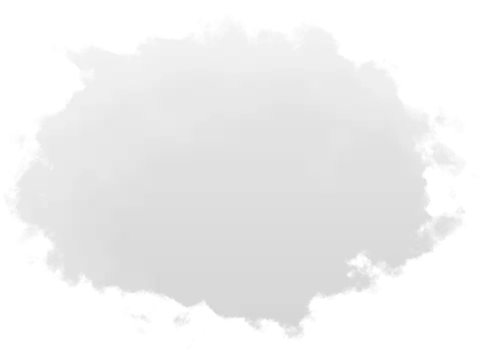
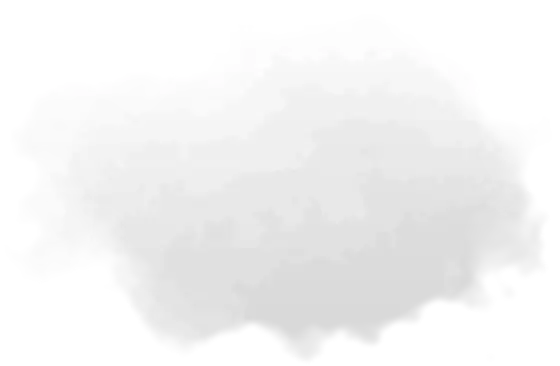
Thin the marketing sky to four soft cumulus at the corners.
The hero stays open sky, phone width keeps three clouds, and night tints the same images to a faint blue-grey.

diff --git a/src/components/sky/clouds/cloud-cutouts.ts b/src/components/sky/clouds/cloud-cutouts.ts
@@ -1,10 +1,10 @@
-/** Photographic cumulus placed at the sides, corners and lower frame. The centre stays sky. */
+/** Photographic cumulus at the edges and corners. The hero sky stays clear. */
 export type CloudCutout = {
   src: string;
   /** Far drifts slower than near, so the two layers parallax. */
   layer: "far" | "near";
-  /** Shown when the live weather is overcast, wet or snowy. */
-  extra?: boolean;
+  /** Hidden at phone width so a small screen shows three clouds, not four. */
+  hideOnPhone?: boolean;
   left?: string;
   right?: string;
   top: string;
@@ -18,12 +18,8 @@ export type CloudCutout = {
 };
 
 export const CLOUD_CUTOUTS: CloudCutout[] = [
-  { src: "/sky/clouds/cumulus-1.webp", layer: "far", left: "-4%", top: "-4%", width: "36%", w: 480, h: 350, dur: "150s", dx: "3.2%", dy: "0.4%", delay: "-20s" },
-  { src: "/sky/clouds/cumulus-2.webp", layer: "far", right: "-4%", top: "46%", width: "36%", w: 480, h: 331, dur: "170s", dx: "2.8%", dy: "0.3%", delay: "-60s" },
-  { src: "/sky/clouds/cumulus-3.webp", layer: "far", left: "-8%", top: "62%", width: "34%", w: 440, h: 370, dur: "160s", dx: "3%", dy: "0.5%", delay: "-90s" },
-  { src: "/sky/clouds/cumulus-4.webp", layer: "near", left: "-10%", top: "18%", width: "40%", w: 600, h: 596, dur: "78s", dx: "6.5%", dy: "0.7%", delay: "-12s" },
-  { src: "/sky/clouds/cumulus-5.webp", layer: "near", right: "-6%", top: "24%", width: "38%", w: 560, h: 590, dur: "70s", dx: "7%", dy: "0.6%", delay: "-36s" },
-  { src: "/sky/clouds/cumulus-6.webp", layer: "near", right: "2%", top: "64%", width: "36%", w: 540, h: 536, dur: "84s", dx: "6%", dy: "0.8%", delay: "-48s" },
-  { src: "/sky/clouds/cumulus-7.webp", layer: "near", extra: true, left: "-2%", top: "74%", width: "30%", w: 440, h: 315, dur: "90s", dx: "5%", dy: "0.4%", delay: "-8s" },
-  { src: "/sky/clouds/cumulus-8.webp", layer: "far", extra: true, right: "16%", top: "54%", width: "28%", w: 420, h: 299, dur: "140s", dx: "3.4%", dy: "0.3%", delay: "-70s" },
+  { src: "/sky/clouds/cumulus-1.webp", layer: "far", left: "-8%", top: "-12%", width: "28%", w: 560, h: 366, dur: "160s", dx: "2.2%", dy: "0.3%", delay: "-20s" },
+  { src: "/sky/clouds/cumulus-2.webp", layer: "far", right: "-10%", top: "-8%", width: "26%", w: 540, h: 359, dur: "180s", dx: "2%", dy: "0.25%", delay: "-70s" },
+  { src: "/sky/clouds/cumulus-3.webp", layer: "near", hideOnPhone: true, left: "-12%", top: "62%", width: "32%", w: 560, h: 392, dur: "90s", dx: "2.4%", dy: "0.4%", delay: "-30s" },
+  { src: "/sky/clouds/cumulus-4.webp", layer: "near", right: "-8%", top: "64%", width: "30%", w: 580, h: 409, dur: "80s", dx: "2.6%", dy: "0.35%", delay: "-48s" },
 ];

diff --git a/tests/sky-nav-readability.test.ts b/tests/sky-nav-readability.test.ts
@@ -73,7 +73,11 @@ test("dark sky is navy with clouds that stay visible and keep light ink at AA", 
   assert.match(vol, /return \(p\.x \+ drift\) \* lite \* cover \* 0\.0/);
   const css = read("src/components/sky/Sky.module.css");
   assert.match(css, /@keyframes cloud-drift/);
-  assert.match(css, /:global\(:root\[data-theme="dark"\]\) \.cloudImg \{\s*filter:/);
+  const nightClouds = css.match(/:global\(:root\[data-theme="dark"\]\) \.cloudImg \{([^}]*)\}/)?.[1] ?? "";
+  assert.match(nightClouds, /opacity:\s*0\.3/);
+  assert.match(nightClouds, /filter:/);
+  assert.doesNotMatch(nightClouds, /contrast/);
+  assert.match(css, /\.cloudPhone \{ display: none; \}/);
   assert.doesNotMatch(css, /\.h1 \{[^}]*filter:/);
   assert.match(css, /url\("\.\/static-day\.svg"\)/);
   assert.match(css, /url\("\.\/static-night\.svg"\)/);
@@ -85,21 +89,23 @@ test("cumulus cutouts are CC0, light, and stay off the headline", () => {
   assert.ok(license.includes("WickedInsignia"));
   assert.ok(license.includes("public domain"));
   const files = readdirSync("public/sky/clouds").filter((name) => name.endsWith(".webp"));
-  assert.equal(files.length, 8);
+  assert.equal(files.length, 4);
   const bytes = files.reduce((sum, name) => sum + statSync(`public/sky/clouds/${name}`).size, 0);
   assert.ok(bytes < 400 * 1024, `cutouts are ${bytes} bytes`);
-  assert.equal(CLOUD_CUTOUTS.length, 8);
+  assert.equal(CLOUD_CUTOUTS.length, 4);
+  assert.ok(CLOUD_CUTOUTS.length <= 5);
+  assert.equal(CLOUD_CUTOUTS.filter((cloud) => cloud.hideOnPhone).length, 1);
   for (const cloud of CLOUD_CUTOUTS) {
-    if (cloud.extra) continue;
     const width = Number.parseFloat(cloud.width);
     const top = Number.parseFloat(cloud.top);
+    const drift = Number.parseFloat(cloud.dx);
     const start = cloud.left != null
       ? Number.parseFloat(cloud.left)
       : 100 - Number.parseFloat(cloud.right ?? "0") - width;
-    const end = start + width;
-    if (top < 48) {
-      const overlaps = Math.min(end, 70) - Math.max(start, 30);
-      assert.ok(overlaps < 4, `${cloud.src} crosses the headline`);
+    const end = start + width + (cloud.left != null ? drift : 0);
+    if (top < 60) {
+      const overlaps = Math.min(end, 75) - Math.max(start, 25);
+      assert.ok(overlaps <= 0, `${cloud.src} crosses the hero sky`);
     }
   }
   const deck = read("src/components/sky/clouds/CloudCutouts.tsx");

diff --git a/src/components/sky/Sky.module.css b/src/components/sky/Sky.module.css
@@ -65,26 +65,29 @@
   user-select: none;
   animation: cloud-drift var(--dur, 120s) ease-in-out infinite alternate;
 }
-.cloudExtra { display: none; }
-:global(:root[data-cloud-cover="more"]) .cloudExtra { display: block; }
 @keyframes cloud-drift {
   from { transform: translate3d(0, 0, 0); }
-  to { transform: translate3d(var(--dx, 4%), var(--dy, 0.4%), 0); }
+  to { transform: translate3d(var(--dx, 2%), var(--dy, 0.3%), 0); }
 }
+/* Overcast and rain grey the same few clouds. They do not add another row. */
 :global(:root[data-cloud-cover="more"]) .cloudImg {
-  filter: saturate(0.5) brightness(0.84);
+  filter: saturate(0.6) brightness(0.9);
 }
+/* Night: faint blue-grey. Opacity stays in the mid-20s to mid-30s, with no contrast boost. */
 :global(:root[data-theme="dark"]) .cloudImg {
-  filter: brightness(0.52) contrast(1.06) saturate(0.38) sepia(0.2) hue-rotate(188deg);
+  opacity: 0.32;
+  filter: grayscale(0.4) sepia(0.45) hue-rotate(192deg) saturate(0.5) brightness(0.95);
 }
 :global(:root[data-theme="dark"][data-cloud-cover="more"]) .cloudImg {
-  filter: brightness(0.4) contrast(1.02) saturate(0.26) sepia(0.16) hue-rotate(190deg);
+  opacity: 0.28;
+  filter: grayscale(0.5) sepia(0.35) hue-rotate(192deg) saturate(0.35) brightness(0.88);
 }
 .cloudDeck[data-drift="off"] .cloudImg { animation: none; }
 @media (prefers-reduced-motion: reduce) {
   .cloudImg { animation: none; }
 }
 @media (max-width: 640px) {
+  .cloudPhone { display: none; }
   .cloudImg { animation: none; }
 }
 

diff --git a/src/components/sky/clouds/CloudCutouts.tsx b/src/components/sky/clouds/CloudCutouts.tsx
@@ -10,7 +10,7 @@ import { CLOUD_CUTOUTS } from "./cloud-cutouts";
 
 /**
  * CC0 cumulus cutouts (public/sky/clouds). Two depths drift at different speeds.
- * A dark-mode filter tints these images only. Overcast and rain reveal the extra pair and grey them.
+ * A dark-mode filter tints these images only. Overcast and rain grey the same clouds.
  */
 export function CloudCutouts() {
   const ref = useRef<HTMLDivElement>(null);
@@ -48,7 +48,7 @@ export function CloudCutouts() {
         // eslint-disable-next-line @next/next/no-img-element
         <img
           key={cloud.src}
-          className={cloud.extra ? `${s.cloudImg} ${s.cloudExtra}` : s.cloudImg}
+          className={cloud.hideOnPhone ? `${s.cloudImg} ${s.cloudPhone}` : s.cloudImg}
           src={cloud.src}
           alt=""
           width={cloud.w}

diff --git a/public/sky/clouds/LICENSE.md b/public/sky/clouds/LICENSE.md
@@ -1,6 +1,6 @@
 # Sky cloud cutouts
 
-Eight cumulus sprites, `cumulus-1.webp` through `cumulus-8.webp`.
+Four cumulus sprites, `cumulus-1.webp` through `cumulus-4.webp`.
 
 Source: “Clouds with Transparency” by WickedInsignia, rendered in Blender.
 https://opengameart.org/content/clouds-with-transparency
@@ -8,4 +8,4 @@ https://opengameart.org/content/clouds-with-transparency
 License: CC0 1.0 Universal (public domain).
 https://creativecommons.org/publicdomain/zero/1.0/
 
-The author released the renders into the public domain for commercial and non-commercial use. Attribution is not required. These files were cropped, given a white-to-grey shade, resized, and re-encoded as WebP for keplar.one.
+The author released the renders into the public domain for commercial and non-commercial use. Attribution is not required. These files were cropped, given a white-to-grey shade, feathered on the alpha so the rims stay soft, resized, and re-encoded as WebP for keplar.one. The noisier source renders were left out.
